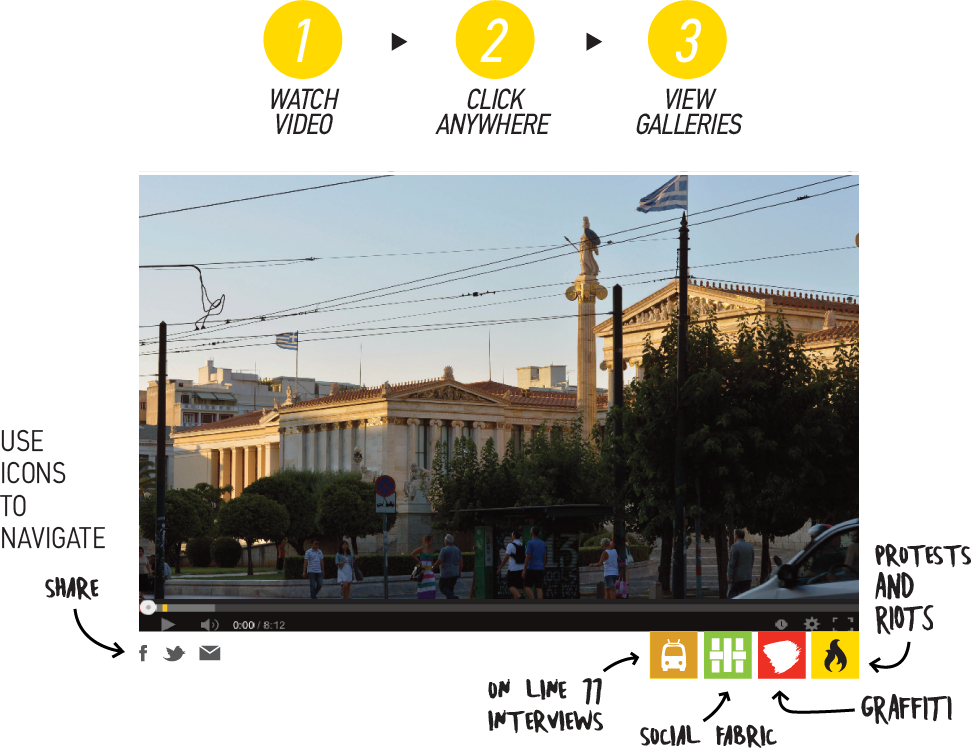
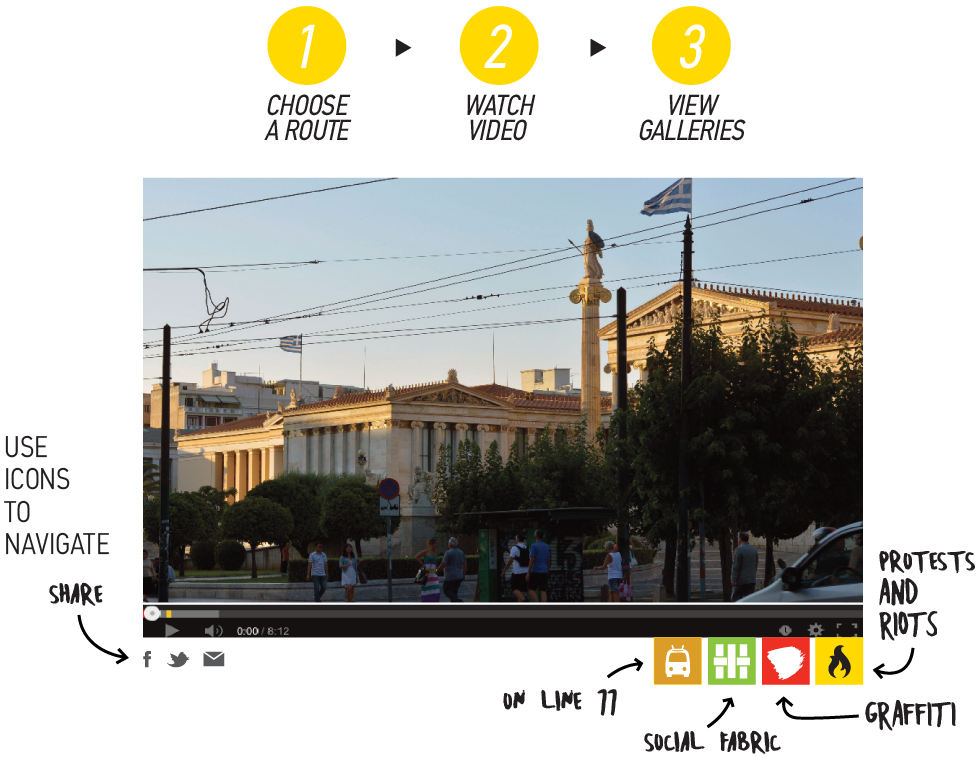
Re-arrange home page

diff --git a/athensreport/templates/base/home.html b/athensreport/templates/base/home.html
@@ -64,43 +64,7 @@
   </div>
 
   <div class="look text-center">
-    <a href="{% url 'gallery:theproject' %}"><img src="{% static 'img/see.png' %}" alt="See how it works"></a>
-  </div>
-
-  <div class="route-title strip text-center">
-    <div>route</div>
-  </div>
-
-  <div class="route">
-    <div class="route-container">
-      <img src="{% static 'img/route.jpg' %}" alt="Route" class="img-responsive">
-      <div class="strip yellowish text-center container">
-        Click on the map to go to riot zones <span class="hidden-sm">|</span><br class="visible-sm"> pause video to go to galleries
-      </div>
-      <div class="row route-info">
-        <div class="col-sm-4">
-          <h2>Follow the trolley<br> bus route</h2>
-        </div>
-        <div class="col-sm-4 route-info-first-text">
-          <p>
-            The digital archive produced by the "Athens Report" surfaces along the route of a popular
-            trolley bus line, number 11, which runs through the historical center of Athens and connects
-            two densely populated neighborhoods, Pagrati and Patissia. The trolley bus route and main
-            navigation of the platform, mapped through a video establishes the main topographical structure
-            for the collection of audiovisual archives.
-          </p>
-        </div>
-        <div class="col-sm-4">
-          <p>
-            The route of trolley bus number 11 is selected as the main video navigation of the platform
-            because of the emblematic significance of the neighborhoods it traverses: the center of the
-            city, the Greek Parliament and Syntagma Square – the heart of the Greek 'occupy movement'-
-            lower middle class and middle class districts and poorer areas populated by a high percentage
-            of undocumented migrants.
-          </p>
-        </div>
-      </div>
-    </div>
+    <a href="{% url 'gallery:theproject' %}"><img src="{% static 'img/see.png' %}" alt="See how it works" class="img-responsive"></a>
   </div>
 
   <div class="project-title strip black text-center">
@@ -109,5 +73,42 @@
 
   <div class="entertheproject">
     <img src="{% static 'img/video-guide.png' %}" alt="video guide" class="video-guide img-responsive">
+  </div>
+
+  <div class="route-title strip text-center">
+    <div>trolley route</div>
+  </div>
+
+  <div class="route">
+    <div class="route-container">
+      <img src="{% static 'img/route.jpg' %}" alt="Route" class="img-responsive">
+      <div class="strip yellowish text-center container">
+        On Video Route: click on the map to go to riot zones <span class="hidden-sm">|</span><br class="visible-sm"> pause video to go to galleries
+      </div>
+      <div class="row route-info">
+        <div class="col-sm-4">
+          <h2>Follow the trolley<br> bus route</h2>
+        </div>
+        <div class="col-sm-4 route-info-first-text">
+          <p>
+            The classification of the Athens Report archive is organically associated to the public space.
+             The VIDEO ROUTE of the historical trolley bus number 11 that crosses the center of Athens,
+             connecting two of the oldest neighborhoods Pagrati and Patissia, functions here as a map.
+             Clicking on the area of your interest the video automatically moves to the responding part
+             of the route and by pausing it, you access the visual material attached to it.
+          </p>
+        </div>
+        <div class="col-sm-4">
+          <p>
+            On the ONLINE 11 section interviews-fragments of personal experiences of space and protest
+            can be found, documented according to the location of the interviewees. On the GRAFFITI ROUTE
+            there is available a digitized collection of street art, photographed around the boundaries of
+            the trolley bus route. The Athens Report platform is a crowdsourcing project, continuously
+            updated by the visitors’ uploads. Click on the UPLOAD MEDIA section to upload your own material
+            and be a part of it.
+          </p>
+        </div>
+      </div>
+    </div>
   </div>
 {% endblock content %}
